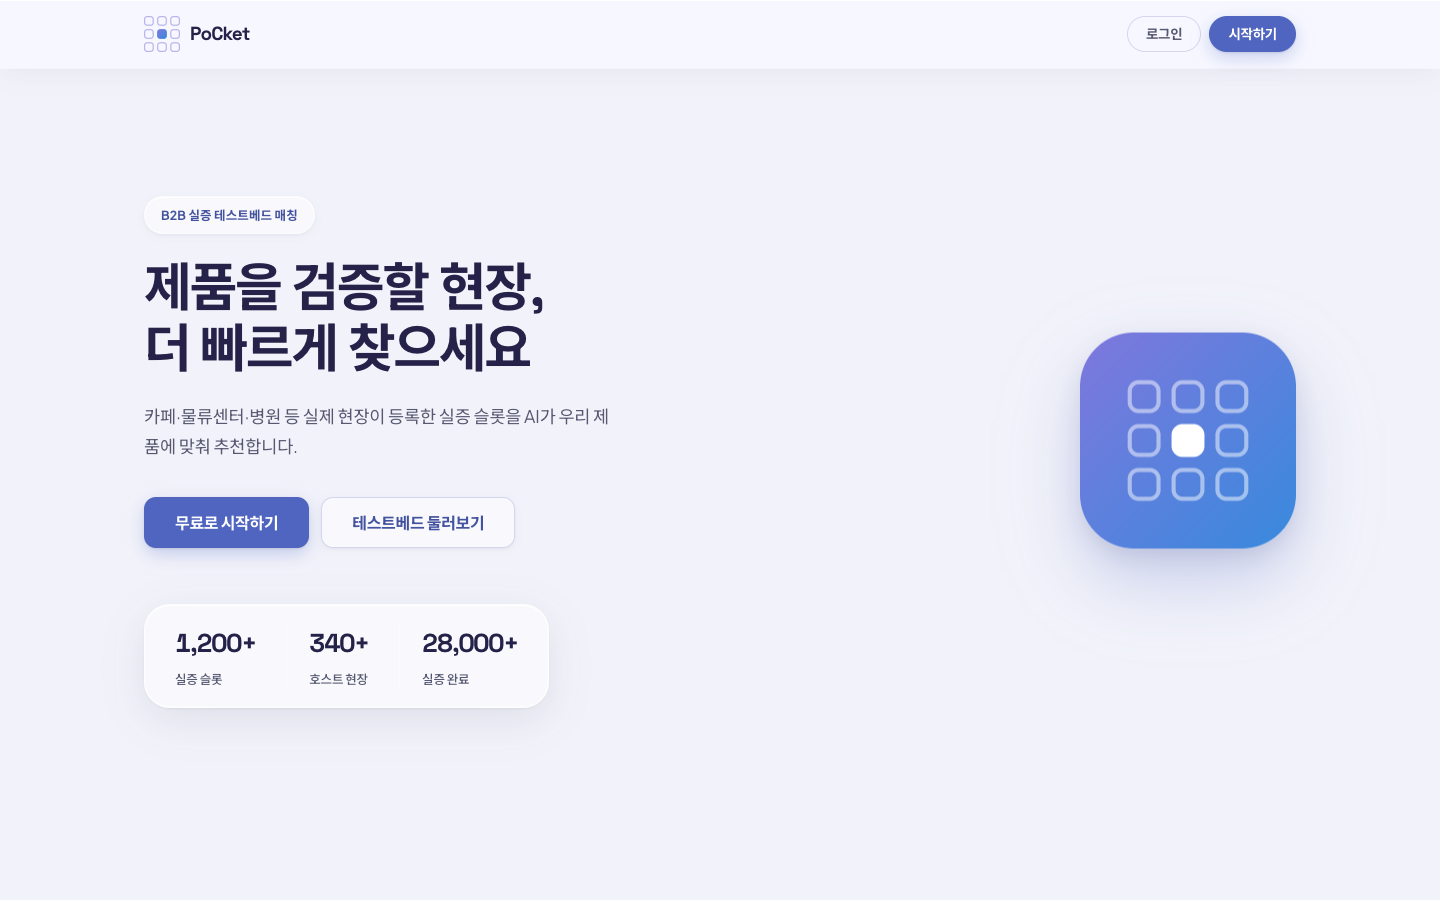
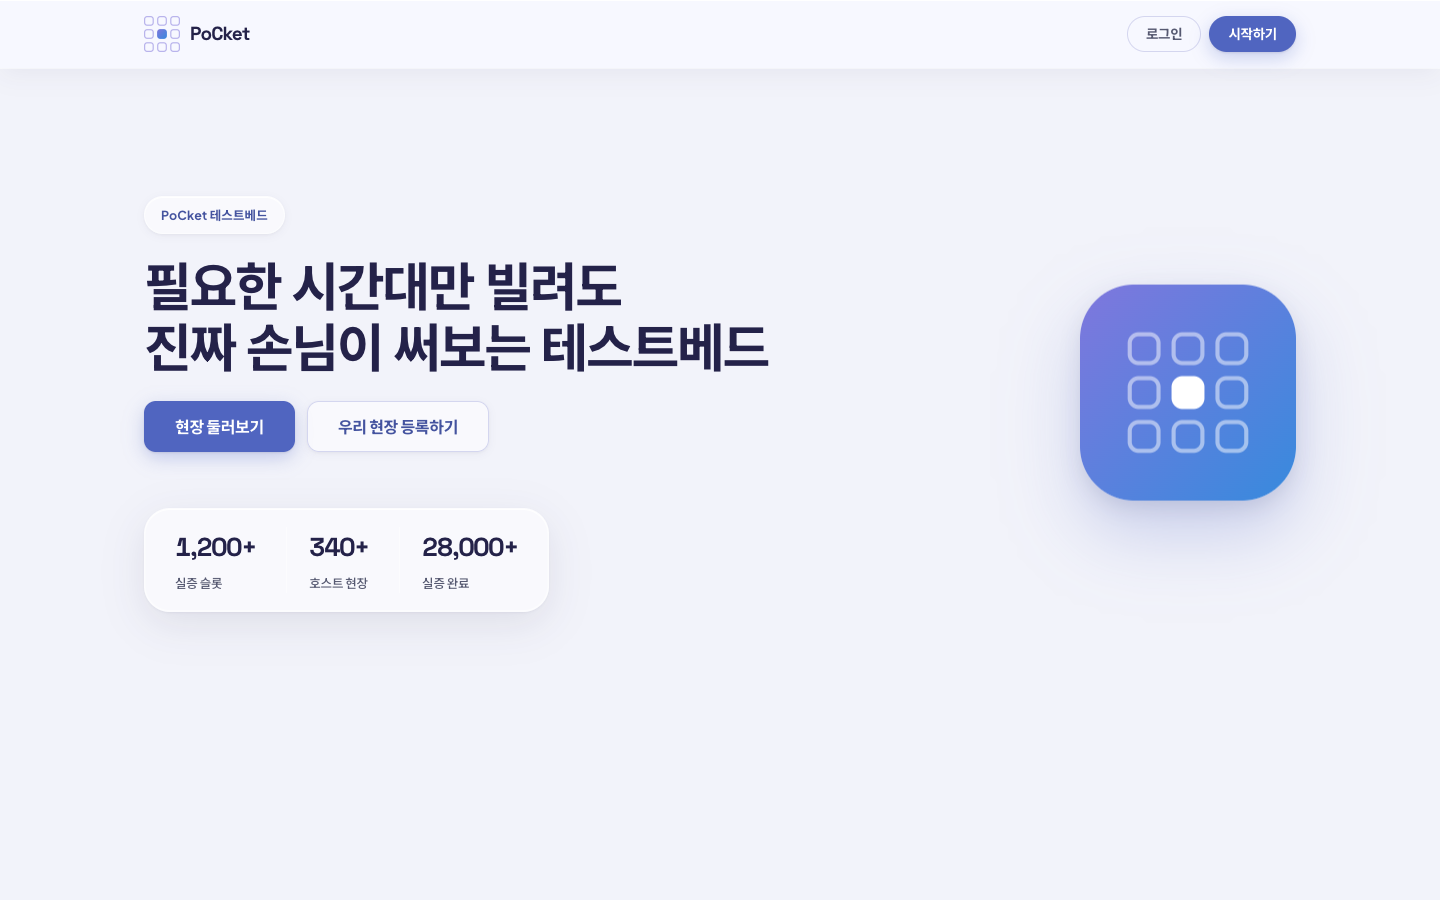
copy: 랜딩 카피를 레퍼런스 형식으로 다시 씀
레퍼런스(토스뱅크 통장 페이지)의 카피 규칙을 따랐다.
eyebrow 는 제품명을 그대로 말하고, 헤드라인은 조건절에서 줄바꿈해
명사로 끝내며, eyebrow 와 같은 단어로 마무리해 제품을 두 번 못 박는다.

  전  [배지] B2B 실증 테스트베드 매칭
      [제목] 제품을 검증할 현장, / 더 빠르게 찾으세요
      [설명] 카페·물류센터·병원 등 실제 현장이 등록한 실증 슬롯을
             AI가 우리 제품에 맞춰 추천합니다.

  후  [배지] PoCket 테스트베드
      [제목] 필요한 시간대만 빌려도 / 진짜 손님이 써보는 테스트베드

설명 문단은 없앴다. 배지·제목과 같은 말을 세 번 하고 있었고, 산업군은
바로 아래 슬롯 카드의 배지가 이미 보여준다. 죽은 .hero-desc 규칙 3곳도
함께 걷어냈다. 되돌리려면 한 줄이다.

"무료로 시작하기" 를 걷어냈다
  핵심 행위인 실증 신청이 유료다. 실증비 ₩1,200,000 이 찍힌 카드 바로
  위에서 "무료" 라고 하면 알고 보면 가입만 무료라 기대를 배신한다.
  주 버튼을 목록(/testbeds)으로 보낸다 — 마켓플레이스는 재고를 먼저
  보여줘야 설득된다. 가입은 신청 직전에 요구해도 늦지 않다.
  보조 버튼은 호스트용 '우리 현장 등록하기' 로 두어 히어로에서 양쪽을
  한 번씩 노출한다.

없는 실적을 지운다
  CTA 부제 "수백 곳의 현장과 스타트업이 PoCket에서 실증을 연결하고
  있습니다." 는 실습 환경에서 사실이 아니다. 서비스가 어떻게 굴러가는지
  말하는 문장으로 바꿨다.
  (히어로 통계 숫자는 유지 요청이 있어 그대로 둔다.)

섹션 제목
  인기 테스트베드      -> 지금 열려 있는 현장
  왜 PoCket인가요?     -> 현장을 구하는 데 몇 달을 쓰지 않도록
  지금 바로 시작하세요 -> 검증할 현장부터 골라보세요

  "왜 ~인가요?" 는 독자가 아직 묻지 않은 질문을 대신 묻는 형식이고
  답이 네 개로 흩어져 한 메시지가 남지 않는다.

특징 4개를 명사구에서 서술형으로 낮추고, 설명문이 제목을 되풀이하지
않도록 제목이 말하지 않은 것만 남겼다.

01-landing.png 갱신.

diff --git a/vue-frontend/src/views/LandingView.vue b/vue-frontend/src/views/LandingView.vue
@@ -7,12 +7,11 @@
     <section class="hero">
       <div class="hero-inner">
         <div class="hero-content fade-in-up">
-          <span class="hero-badge">B2B 실증 테스트베드 매칭</span>
-          <h1 class="hero-title">제품을 검증할 현장,<br>더 빠르게 찾으세요</h1>
-          <p class="hero-desc">카페·물류센터·병원 등 실제 현장이 등록한 실증 슬롯을 AI가 우리 제품에 맞춰 추천합니다.</p>
+          <span class="hero-badge">PoCket 테스트베드</span>
+          <h1 class="hero-title">필요한 시간대만 빌려도<br>진짜 손님이 써보는 테스트베드</h1>
           <div class="hero-actions">
-            <router-link to="/register" class="btn btn-primary btn-lg">무료로 시작하기</router-link>
-            <router-link to="/testbeds" class="btn btn-outline btn-lg">테스트베드 둘러보기</router-link>
+            <router-link to="/testbeds" class="btn btn-primary btn-lg">현장 둘러보기</router-link>
+            <router-link to="/register" class="btn btn-outline btn-lg">우리 현장 등록하기</router-link>
           </div>
           <div class="hero-stats">
             <div v-for="(s, i) in stats" :key="s.label" class="stat">
@@ -33,7 +32,7 @@
     <section class="popular-section">
       <div class="section-inner">
         <div class="section-header" v-reveal>
-          <h2 class="section-title">인기 테스트베드</h2>
+          <h2 class="section-title">지금 열려 있는 현장</h2>
           <router-link to="/testbeds" class="section-link">전체 보기 →</router-link>
         </div>
         <div class="course-grid">
@@ -67,7 +66,7 @@
     <!-- 특징 섹션 -->
     <section class="features-section">
       <div class="section-inner">
-        <h2 class="section-title center" v-reveal>왜 PoCket인가요?</h2>
+        <h2 class="section-title center" v-reveal>현장을 구하는 데 몇 달을 쓰지 않도록</h2>
         <div class="features-grid">
           <div
             v-for="(f, i) in features"
@@ -86,9 +85,9 @@
     <!-- CTA -->
     <section class="cta-section">
       <div class="cta-inner" v-reveal="{ y: 24 }">
-        <h2>지금 바로 시작하세요</h2>
-        <p>수백 곳의 현장과 스타트업이 PoCket에서 실증을 연결하고 있습니다.</p>
-        <router-link to="/register" class="btn btn-primary btn-lg">무료로 시작하기</router-link>
+        <h2>검증할 현장부터 골라보세요</h2>
+        <p>조건을 보고, 신청하고, 결제하면 확정됩니다. 그 다음은 현장에서 확인하세요.</p>
+        <router-link to="/testbeds" class="btn btn-primary btn-lg">현장 둘러보기</router-link>
       </div>
     </section>
 
@@ -166,10 +165,10 @@ const stats = [
 ]
 
 const features = [
-  { icon:'target', title:'AI 테스트베드 매칭', desc:'제품 카테고리와 실증 이력을 분석해 맞는 현장을 추천합니다.' },
-  { icon:'office', title:'검증된 실제 현장', desc:'카페·물류센터·병원 등 운영 중인 현장이 직접 슬롯을 등록합니다.' },
-  { icon:'document', title:'신청부터 확정까지', desc:'신청·결제·확정을 한 흐름으로 처리해 실증 준비 기간을 줄입니다.' },
-  { icon:'star', title:'상호 평가 기반 신뢰', desc:'실증이 끝나면 호스트와 스타트업이 서로 평가해 다음 매칭의 근거가 됩니다.' },
+  { icon:'target', title:'조건에 맞는 현장을 찾아줍니다', desc:'제품 카테고리와 지난 실증 이력을 함께 봅니다.' },
+  { icon:'office', title:'운영 중인 현장이 직접 등록합니다', desc:'카페·리테일·물류·헬스케어·오피스 등 8개 산업군.' },
+  { icon:'document', title:'결제하면 바로 확정됩니다', desc:'따로 심사를 기다릴 필요가 없습니다.' },
+  { icon:'star', title:'끝나면 서로 평가합니다', desc:'그 평판이 다음 매칭의 근거가 됩니다.' },
 ]
 </script>
 
@@ -216,13 +215,6 @@ const features = [
   letter-spacing: -0.045em;
   color: var(--color-text-primary);
   margin-bottom: 20px;
-}
-.hero-desc {
-  font-size: 17.5px;
-  color: var(--color-text-secondary);
-  line-height: 1.72;
-  max-width: 480px;
-  margin-bottom: 36px;
 }
 .hero-actions {
   display: flex;
@@ -287,7 +279,6 @@ const features = [
   /* 로고 타일이 auto 트랙이라 텍스트 칸의 최소 폭을 밀어낸다 */
   .hero-visual { display: none; }
   .hero-title { font-size: 40px; }
-  .hero-desc { max-width: none; }
   .course-grid { grid-template-columns: repeat(2, minmax(0, 1fr)); }
   .features-grid { grid-template-columns: repeat(2, minmax(0, 1fr)); }
   .features-section { padding: 72px 0; }
@@ -297,7 +288,6 @@ const features = [
 @media (max-width: 600px) {
   .hero { padding: 56px 0 48px; }
   .hero-title { font-size: 31px; }
-  .hero-desc { font-size: 16px; }
   .hero-actions { flex-direction: column; align-items: stretch; }
   .hero-actions .btn { width: 100%; text-align: center; }
   .hero-stats { flex-wrap: wrap; }
